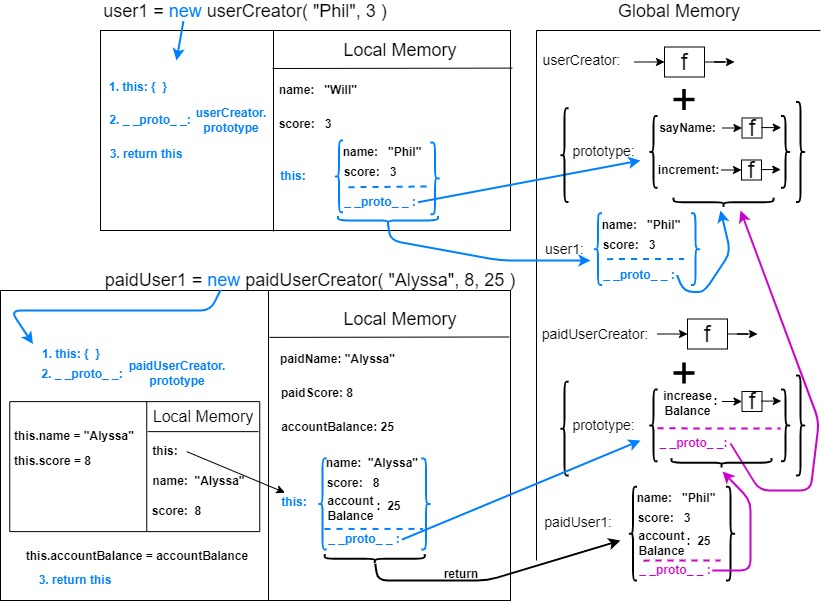
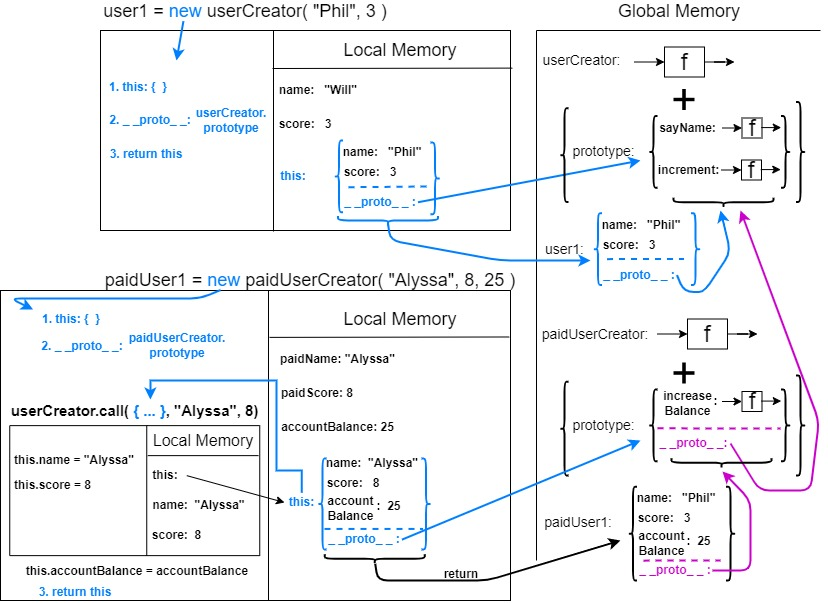
last chapter added

diff --git a/README.md b/README.md
@@ -341,6 +341,7 @@ And without even knowing it we have achieve all our goals about *paidUser* subcl
 # Subclassing with *new* and *call*:
 ## Subclassing in Solution 3
 
+### Note: Please watch the course for any of this to make sense
 
 ```javascript
 function userCreator(name, score) {
@@ -365,7 +366,7 @@ user1.sayName(); // "I'm Phil"
 
 function paidUserCreator(paidName, paidScore, accountBalance) {
   userCreator.call(this, paidName, paidScore);
-  userCreator.apply(this, [paidName, paidScore])
+  //userCreator.apply(this, [paidName, paidScore])
   this.accountBalance = accountBalance;
 }
 
@@ -383,5 +384,23 @@ paidUser1.sayName(); // "I'm alyssa"
 ```
 
 Code execution diagram:  
-[Solution 3 Subclassing Diagram](./images/solution3-subclassing.jpg)
+![Solution 3 Subclassing Diagram](./images/solution3-subclassing.jpg)
+
+### Short rundown of the code:
+1. We call *paidUserCreator* with **new** in front
+2. A new **Execution Context** will be created
+3. Since we called it with **new**, an empty object will be automatically created and assigned to **this**.
+4. The **_ _proto\_ _** property on this newly created object will link to *paidUserCreator* **prototype** object - this happens again automatically, because of the **new** keyword
+5. Now we run *userCreator.call( ... )* so in the **Execution Context** of *paidUserCreator*, another **Execution Context** will be created.
+6. Since we ran the *userCreator* function with *.call()* ,the implicit parameter **this** (used inside *userCreator* for *this.name* and *this.score* assignments) will get assigned to it a reference to **the auto-created, empty object also called *this* from *paidUserCreator***, and since we did not run *userCreator* with **new**, it will run as a normal function, simply doing the assignments (*name* to *name* and *score* to *score*). So we can translate *this.name = name* to *paidUserCreator.name = paidName* (of course, that's not exactly how it works, but it's a generalization for learning purposes) 
+6. Now we get out of *userCreator.call( ... )* and our **this** object has on it a *name* and *score* property and the respective values, and next we add to it *accountBalance*
+7. In the last step, since we called *paidUserCreator* with **new**, the **this** object will get automatically returned.
+
+### What does this do though?
+```javascript
+paidUserCreator.prototype = Object.create(userCreator.prototype);
+```
+Since we want our *paidUserCreator* to "inherit" from userCreator, this code will do just that. How?
+When *Object.create()* runs it always returns an empty object **AND** assigns to the **_ \_proto\_ \_** property of that empty object, whatever it was passed as an argument when the ".create()" function was called. So in our case, we **override** the empty **prototype** object on *paidUserCreator* with another empty object, **that has its *_ _proto\_ _* property linked to *userCreator* prototype object**
+
 </details>
